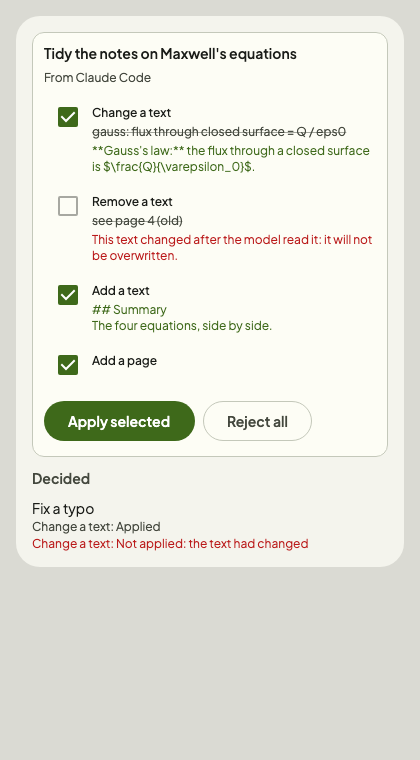
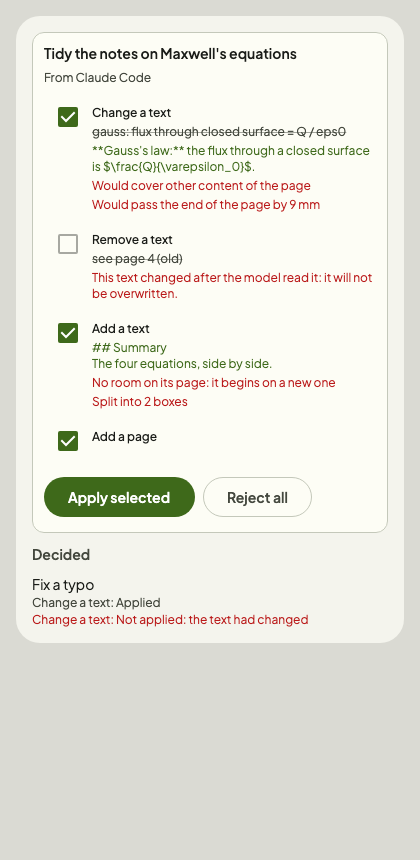
feat(agent): the warnings of a proposal in its review, with the recorded abi

diff --git a/drawview-agent-ui/src/commonMain/kotlin/io/github/valerioisufi/drawview/agent/ui/AgentReviewUi.kt b/drawview-agent-ui/src/commonMain/kotlin/io/github/valerioisufi/drawview/agent/ui/AgentReviewUi.kt
@@ -38,6 +38,7 @@ import io.github.valerioisufi.drawview.agent.AgentConnection
 import io.github.valerioisufi.drawview.agent.AgentGrants
 import io.github.valerioisufi.drawview.agent.ExternalAgents
 import io.github.valerioisufi.drawview.agent.ItemOutcome
+import io.github.valerioisufi.drawview.agent.PlacementWarning
 import io.github.valerioisufi.drawview.agent.Proposal
 import io.github.valerioisufi.drawview.agent.ProposalEntry
 import io.github.valerioisufi.drawview.agent.ProposalItem
@@ -69,6 +70,13 @@ import io.github.valerioisufi.drawview.agent.ui.generated.resources.agent_review
 import io.github.valerioisufi.drawview.agent.ui.generated.resources.agent_review_from
 import io.github.valerioisufi.drawview.agent.ui.generated.resources.agent_review_show
 import io.github.valerioisufi.drawview.agent.ui.generated.resources.agent_review_title
+import io.github.valerioisufi.drawview.agent.ui.generated.resources.agent_warning_chain
+import io.github.valerioisufi.drawview.agent.ui.generated.resources.agent_warning_far
+import io.github.valerioisufi.drawview.agent.ui.generated.resources.agent_warning_narrowed
+import io.github.valerioisufi.drawview.agent.ui.generated.resources.agent_warning_new_page
+import io.github.valerioisufi.drawview.agent.ui.generated.resources.agent_warning_overlaps
+import io.github.valerioisufi.drawview.agent.ui.generated.resources.agent_warning_past_end
+import io.github.valerioisufi.drawview.agent.ui.generated.resources.agent_warning_split
 import io.github.valerioisufi.drawview.canvas.controller.DrawViewController
 import io.github.valerioisufi.drawview.model.change.ChangeObserver
 import io.github.valerioisufi.drawview.ui.adaptive.AdaptiveSheet
@@ -78,6 +86,8 @@ import io.github.valerioisufi.drawview.ui.extension.EditorExtension
 import io.github.valerioisufi.drawview.ui.extension.EditorPanel
 import io.github.valerioisufi.drawview.ui.screen.EditorActionButton
 import io.github.valerioisufi.drawview.ui.theme.DrawViewIcons
+import kotlin.math.roundToInt
+import kotlinx.coroutines.delay
 import kotlinx.coroutines.launch
 import org.jetbrains.compose.resources.stringResource
 
@@ -156,15 +166,29 @@ public class AgentReviewUi(private val agents: ExternalAgents) {
             onDispose { controller.session.removeObserver(observer) }
         }
         var stale by remember { mutableStateOf<Map<String, Set<Int>>>(emptyMap()) }
+        var warnings by remember { mutableStateOf<Map<String, Map<Int, List<PlacementWarning>>>>(emptyMap()) }
         LaunchedEffect(all, changes) {
-            stale = proposals.filter { it.isWaiting }.associate { it.id to agents.staleItems(it) }
+            val waiting = proposals.filter { it.isWaiting }
+            stale = waiting.associate { it.id to agents.staleItems(it) }
+            // A plan takes time on the thread of the document: not at every stroke
+            delay(PLAN_DELAY_MS)
+            warnings = waiting.associate { proposal ->
+                proposal.id to agents.plan(proposal)?.items.orEmpty().withIndex()
+                    .filter { it.value.warnings.isNotEmpty() }
+                    .associate { it.index to it.value.warnings }
+            }
         }
         ReviewList(
             proposals = proposals,
             staleItems = stale,
+            warnings = warnings,
             onDecide = { id, accepted -> scope.launch { agents.decide(id, accepted) } },
             modifier = Modifier.fillMaxWidth()
         )
+    }
+
+    private companion object {
+        const val PLAN_DELAY_MS = 300L
     }
 }
 
@@ -174,7 +198,8 @@ internal fun ReviewList(
     proposals: List<Proposal>,
     staleItems: Map<String, Set<Int>>,
     onDecide: (String, Set<Int>) -> Unit,
-    modifier: Modifier = Modifier
+    modifier: Modifier = Modifier,
+    warnings: Map<String, Map<Int, List<PlacementWarning>>> = emptyMap()
 ) {
     val waiting = proposals.filter { it.isWaiting }
     val decided = proposals.filterNot { it.isWaiting }.asReversed()
@@ -191,7 +216,7 @@ internal fun ReviewList(
         }
         for (proposal in waiting) {
             androidx.compose.runtime.key(proposal.id) {
-                ProposalCard(proposal, staleItems[proposal.id].orEmpty(), onDecide)
+                ProposalCard(proposal, staleItems[proposal.id].orEmpty(), warnings[proposal.id].orEmpty(), onDecide)
             }
         }
         if (decided.isNotEmpty()) {
@@ -209,7 +234,7 @@ internal fun ReviewList(
 
 /** A proposal waiting: each item with a box, on by default but when stale. */
 @Composable
-private fun ProposalCard(proposal: Proposal, stale: Set<Int>, onDecide: (String, Set<Int>) -> Unit) {
+private fun ProposalCard(proposal: Proposal, stale: Set<Int>, warnings: Map<Int, List<PlacementWarning>>, onDecide: (String, Set<Int>) -> Unit) {
     val unchecked = remember(proposal.id) { mutableStateSetOf<Int>() }
     Surface(
         shape = RoundedCornerShape(12.dp),
@@ -232,7 +257,7 @@ private fun ProposalCard(proposal: Proposal, stale: Set<Int>, onDecide: (String,
                         enabled = !isStale,
                         onCheckedChange = { checked -> if (checked) unchecked -= index else unchecked += index }
                     )
-                    EntryContent(entry, isStale, Modifier.weight(1f).padding(top = 12.dp))
+                    EntryContent(entry, isStale, warnings[index].orEmpty(), Modifier.weight(1f).padding(top = 12.dp))
                 }
             }
             Row(horizontalArrangement = Arrangement.spacedBy(8.dp), verticalAlignment = Alignment.CenterVertically) {
@@ -250,7 +275,7 @@ private fun ProposalCard(proposal: Proposal, stale: Set<Int>, onDecide: (String,
 
 /** What an item does: the text as it is and as it would be. */
 @Composable
-private fun EntryContent(entry: ProposalEntry, stale: Boolean, modifier: Modifier = Modifier) {
+private fun EntryContent(entry: ProposalEntry, stale: Boolean, warnings: List<PlacementWarning>, modifier: Modifier = Modifier) {
     val item = entry.item
     Column(modifier, verticalArrangement = Arrangement.spacedBy(4.dp)) {
         Text(itemLabel(item), style = MaterialTheme.typography.labelMedium, fontWeight = FontWeight.Medium)
@@ -275,7 +300,29 @@ private fun EntryContent(entry: ProposalEntry, stale: Boolean, modifier: Modifie
                 color = MaterialTheme.colorScheme.error
             )
         }
+        // What was made on something changed goes nowhere: where it would go does not matter
+        if (!stale) {
+            for (warning in warnings) {
+                Text(
+                    warningText(warning),
+                    style = MaterialTheme.typography.bodySmall,
+                    color = MaterialTheme.colorScheme.error
+                )
+            }
+        }
     }
+}
+
+/** What is wrong with where an item goes, in words. */
+@Composable
+private fun warningText(warning: PlacementWarning): String = when (warning) {
+    is PlacementWarning.FarFromAnchor -> stringResource(Res.string.agent_warning_far, warning.byMm.roundToInt())
+    PlacementWarning.MovedToNewPage -> stringResource(Res.string.agent_warning_new_page)
+    is PlacementWarning.Split -> stringResource(Res.string.agent_warning_split, warning.pieces)
+    is PlacementWarning.Narrowed -> stringResource(Res.string.agent_warning_narrowed)
+    is PlacementWarning.Overlaps -> stringResource(Res.string.agent_warning_overlaps)
+    is PlacementWarning.PastPageEnd -> stringResource(Res.string.agent_warning_past_end, warning.byMm.roundToInt())
+    is PlacementWarning.ChainOverflow -> stringResource(Res.string.agent_warning_chain)
 }
 
 @Composable

diff --git a/drawview-agent-ui/src/jvmTest/kotlin/io/github/valerioisufi/drawview/agent/ui/AgentReviewScreenshotTest.kt b/drawview-agent-ui/src/jvmTest/kotlin/io/github/valerioisufi/drawview/agent/ui/AgentReviewScreenshotTest.kt
@@ -18,6 +18,7 @@ import io.github.takahirom.roborazzi.captureRoboImage
 import io.github.valerioisufi.drawview.agent.AgentConnection
 import io.github.valerioisufi.drawview.agent.AgentGrants
 import io.github.valerioisufi.drawview.agent.ItemOutcome
+import io.github.valerioisufi.drawview.agent.PlacementWarning
 import io.github.valerioisufi.drawview.agent.Proposal
 import io.github.valerioisufi.drawview.agent.ProposalEntry
 import io.github.valerioisufi.drawview.agent.ProposalItem
@@ -92,14 +93,21 @@ class AgentReviewScreenshotTest {
         )
     )
 
+    private val warnings = mapOf(
+        "one" to mapOf(
+            0 to listOf(PlacementWarning.Overlaps(listOf("a")), PlacementWarning.PastPageEnd(9f)),
+            2 to listOf(PlacementWarning.MovedToNewPage, PlacementWarning.Split(2))
+        )
+    )
+
     @Test
-    fun review() = capture("agent_review", 420, 760) {
-        ReviewList(listOf(decided, waiting), mapOf("one" to setOf(1)), onDecide = { _, _ -> })
+    fun review() = capture("agent_review", 420, 860) {
+        ReviewList(listOf(decided, waiting), mapOf("one" to setOf(1)), onDecide = { _, _ -> }, warnings = warnings)
     }
 
     @Test
-    fun reviewDark() = capture("agent_review_dark", 420, 760, dark = true) {
-        ReviewList(listOf(decided, waiting), mapOf("one" to setOf(1)), onDecide = { _, _ -> })
+    fun reviewDark() = capture("agent_review_dark", 420, 860, dark = true) {
+        ReviewList(listOf(decided, waiting), mapOf("one" to setOf(1)), onDecide = { _, _ -> }, warnings = warnings)
     }
 
     @Test

diff --git a/drawview-agent-ui/src/jvmTest/kotlin/io/github/valerioisufi/drawview/agent/ui/AgentReviewEditorTest.kt b/drawview-agent-ui/src/jvmTest/kotlin/io/github/valerioisufi/drawview/agent/ui/AgentReviewEditorTest.kt
@@ -204,6 +204,34 @@ class AgentReviewEditorTest {
         assertEquals(listOf("Old text"), scene.texts)
     }
 
+    @Test
+    fun aTextThatWouldNotFitIsToldInTheReview() = scene { scene ->
+        val base = runBlocking {
+            scene.call("read_page", buildJsonObject { put("document", scene.documentId) })
+                .getValue("texts").jsonArray.first().jsonObject.getValue("base").jsonPrimitive.content
+        }
+        runBlocking {
+            scene.call(
+                "propose",
+                buildJsonObject {
+                    put("document", scene.documentId)
+                    put("title", "Far too long")
+                    put(
+                        "items",
+                        JsonArray(listOf(buildJsonObject {
+                            put("kind", "replace_text")
+                            put("text", scene.text.id)
+                            put("base", base)
+                            put("markdown", (1..200).joinToString("\n\n") { "Line $it" })
+                        }))
+                    )
+                }
+            )
+        }
+        awaitPanel()
+        awaitInRealTime { onAllNodesWithText("Would pass the end of the page", substring = true).fetchSemanticsNodes().isNotEmpty() }
+    }
+
     /** The heights of an editor; how long the largest preview takes is in `docs/agent-placement.md`. */
     @Test
     fun aPreviewInAnEditorIsMeasured() = scene { scene ->

diff --git a/drawview-agent/src/commonMain/kotlin/io/github/valerioisufi/drawview/agent/ExternalAgents.kt b/drawview-agent/src/commonMain/kotlin/io/github/valerioisufi/drawview/agent/ExternalAgents.kt
@@ -66,8 +66,12 @@ public class ExternalAgents(
         }
     }
 
-    /** What [proposal] would do to its document as it is now; `null` when it cannot be opened. */
+    /**
+     * What [proposal] would do to its document as it is now; `null` when it cannot be opened, or holds
+     * too much text to be planned before the user accepts it.
+     */
     public suspend fun plan(proposal: Proposal): ProposalPlan? {
+        if (!ProposalLimits().canPlan(proposal.entries.map { it.item })) return null
         val open = documents.open(proposal.documentId) ?: return null
         try {
             return open.edit { session -> planner.plan(session.document, proposal.entries.map { it.item }) }

diff --git a/docs/agent-placement.md b/docs/agent-placement.md
@@ -208,7 +208,7 @@ the ones that matter most, and each phase can be left out of the ones after it.
 | 1 | `ProposalPlanner` and `TextMeasure` out of `ProposalApplier`, the plan seeing what earlier items removed or grew; `near`, `near_area`, `where`; `TextFlow.FirstPlace`, with the ABI of `drawview-model` and `drawview-agent` re-recorded. Tests: the place below and in the margin of a box and of an area, a box moved after the proposal, no room near the anchor, stale and refused references, removing then inserting on one page | done |
 | 2 | `preview_proposal`, the plan in the answer of `propose` and the places in `proposal_status`; the warnings, with the check of `replace_text`; `pencilnotes preview`. Tests: a preview changes nothing and opens nothing, what a preview says is what `apply` does on the same page, each warning, a closed document answering `measured: false`, the largest proposal measured; the commands against the application on a scratch directory | done |
 | 3 | The geometry in `read_page`, `FreeSpace.largestAreas`. Tests: empty, full, PDF and scanned pages, texts at their measured height | done |
-| 4 | The warnings in the review panel. Tests: screenshots (`verifyRoborazziJvm`), a real editor | proposed |
+| 4 | The warnings in the review panel. Tests: screenshots (`verifyRoborazziJvm`), a real editor | done |
 | 5 | The text shown on the page from the review, its place chosen by the user, `decide` with the places. Tests: a real editor (shown, dragged, confirmed, undone at once; cancelled, nothing changes), the desktop application on a scratch directory. The clicks in its window are left to the user | proposed |
 
 ## Decisions
